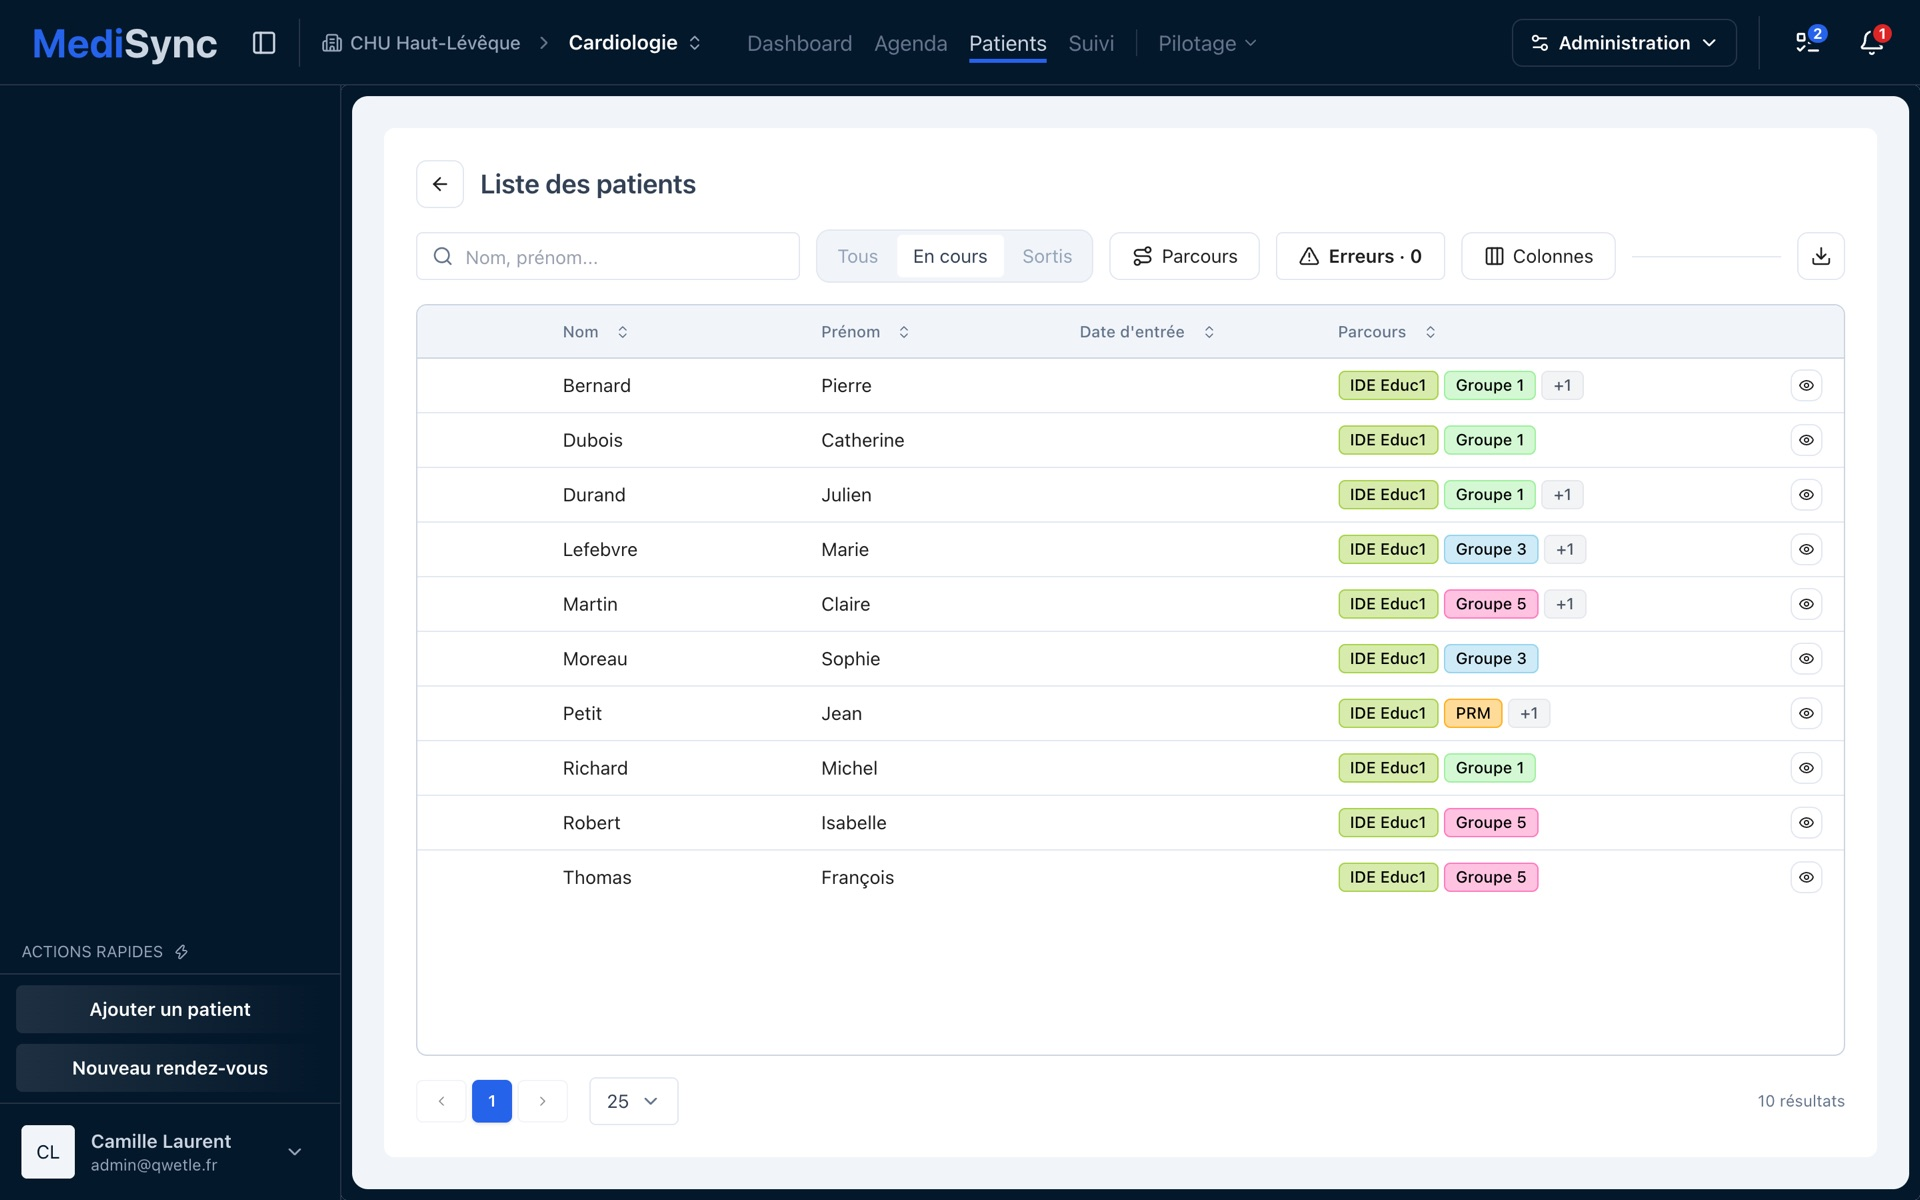
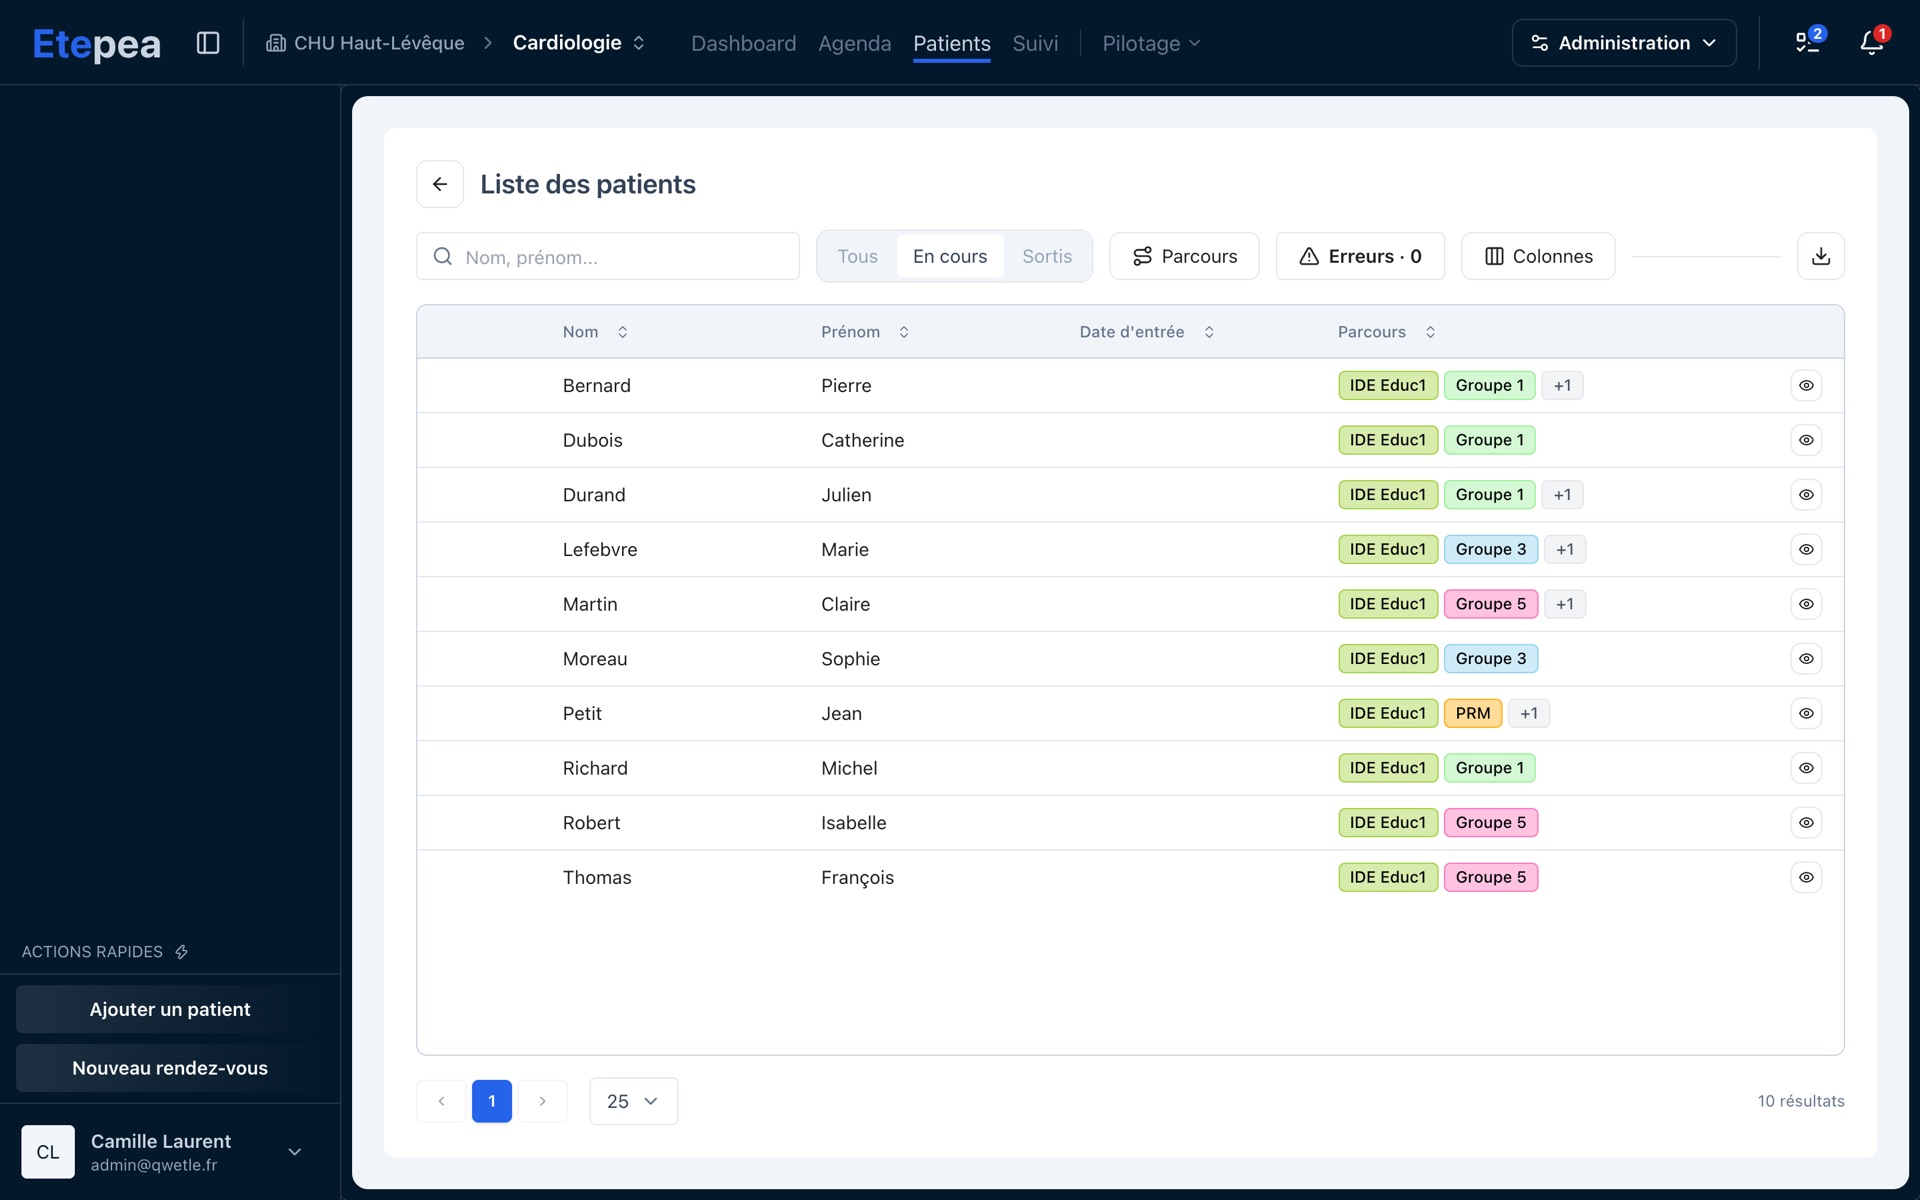
feat: renommer MediSync en Etepea dans l'app et les e-mails, captures du site refaites

Changed region(s): [[0.0, 0.0308, 0.6562, 0.0617]]

diff --git a/back/src/main/infra/mail/templates.ts b/back/src/main/infra/mail/templates.ts
@@ -35,12 +35,12 @@ export const invitationMail = ({
 }): Mail => {
   const where = establishmentName ? ` pour ${establishmentName}` : ''
   const asWhat = soignantName ? `, en tant que ${soignantName}` : ''
-  const intro = `Un accès à MediSync a été ouvert à votre nom${where}${asWhat}.`
+  const intro = `Un accès à Etepea a été ouvert à votre nom${where}${asWhat}.`
   const validity =
     "Ce lien est personnel, à usage unique et valable 30 jours. Si vous n'attendiez pas cet e-mail, ignorez-le."
   return {
     to,
-    subject: 'Votre accès à MediSync',
+    subject: 'Votre accès à Etepea',
     text: `${intro}\n\nChoisissez votre mot de passe en ouvrant ce lien :\n${link}\n\n${validity}`,
     html: layout(
       [
@@ -62,12 +62,12 @@ export const passwordResetMail = ({
   link: string
 }): Mail => {
   const intro =
-    'Une réinitialisation du mot de passe de votre compte MediSync a été demandée.'
+    'Une réinitialisation du mot de passe de votre compte Etepea a été demandée.'
   const validity =
     "Ce lien est à usage unique et valable 1 heure. Si vous n'êtes pas à l'origine de cette demande, ignorez cet e-mail : votre mot de passe reste inchangé."
   return {
     to,
-    subject: 'Réinitialisation de votre mot de passe MediSync',
+    subject: 'Réinitialisation de votre mot de passe Etepea',
     text: `${intro}\n\nChoisissez un nouveau mot de passe en ouvrant ce lien :\n${link}\n\n${validity}`,
     html: layout(
       [escapeHtml(intro), escapeHtml(validity)],
@@ -86,12 +86,12 @@ export const memberAddedMail = ({
   link: string
   establishmentName: string
 }): Mail => {
-  const intro = `Vous avez désormais accès à ${establishmentName} sur MediSync.`
+  const intro = `Vous avez désormais accès à ${establishmentName} sur Etepea.`
   const how =
     'Connectez-vous avec votre adresse et votre mot de passe habituels.'
   return {
     to,
-    subject: 'Nouvel accès sur MediSync',
+    subject: 'Nouvel accès sur Etepea',
     text: `${intro}\n\n${how}\n${link}`,
     html: layout([escapeHtml(intro), escapeHtml(how)], link, 'Se connecter'),
   }

diff --git a/back/src/test/unit/infra/notification-templates.test.ts b/back/src/test/unit/infra/notification-templates.test.ts
@@ -80,16 +80,16 @@ describe('notification-templates', () => {
   })
 
   it.each([
-    ['REMINDER', 'MediSync : rappel de séance'],
-    ['PATIENT_ADDED', 'MediSync : patient ajouté'],
-    ['APPOINTMENT_MOVED', 'MediSync : séance modifiée'],
-    ['APPOINTMENT_CANCELLED', 'MediSync : séance annulée'],
-    ['ABSENT', 'MediSync : absence'],
-    ['SLOT_ALMOST_FULL', 'MediSync : créneau presque complet'],
-    ['DIAGNOSTIC_DUE', 'MediSync : diagnostic à réaliser'],
-    ['PATHWAY_END', 'MediSync : fin de parcours'],
-    ['TASK_DUE', 'MediSync : tâche à échéance'],
-    ['MENTION', 'MediSync : mention dans une tâche'],
+    ['REMINDER', 'Etepea : rappel de séance'],
+    ['PATIENT_ADDED', 'Etepea : patient ajouté'],
+    ['APPOINTMENT_MOVED', 'Etepea : séance modifiée'],
+    ['APPOINTMENT_CANCELLED', 'Etepea : séance annulée'],
+    ['ABSENT', 'Etepea : absence'],
+    ['SLOT_ALMOST_FULL', 'Etepea : créneau presque complet'],
+    ['DIAGNOSTIC_DUE', 'Etepea : diagnostic à réaliser'],
+    ['PATHWAY_END', 'Etepea : fin de parcours'],
+    ['TASK_DUE', 'Etepea : tâche à échéance'],
+    ['MENTION', 'Etepea : mention dans une tâche'],
   ])('sujet verbatim de %s', (type, expected) => {
     expect(notificationSubject(type as (typeof TYPES)[number])).toBe(expected)
   })
@@ -239,7 +239,7 @@ describe('notification-templates', () => {
       { type: 'REMINDER', payload: { startDate: START } },
       FRONT_URL,
     )
-    expect(mail.subject).toBe('MediSync : rappel de séance')
+    expect(mail.subject).toBe('Etepea : rappel de séance')
     expect(mail.text).toContain(FRONT_URL)
     expect(mail.text).toContain(
       'Vous recevez cet e-mail selon vos préférences de notification.',
@@ -260,7 +260,7 @@ describe('notification-templates', () => {
       START,
       FRONT_URL,
     )
-    expect(mail.subject).toBe('MediSync : vos notifications du jeu. 22/10')
+    expect(mail.subject).toBe('Etepea : vos notifications du jeu. 22/10')
     expect(mail.text).toContain(
       'Rappel : vous avez une séance le jeu. 22/10 à 09:00, Bureau 2.',
     )

diff --git a/back/src/main/infra/mail/notification-templates.ts b/back/src/main/infra/mail/notification-templates.ts
@@ -7,7 +7,7 @@ export type MailableNotification = {
   payload: Record<string, unknown>
 }
 
-const CTA = 'Ouvrir MediSync'
+const CTA = 'Ouvrir Etepea'
 const FOOTER = 'Vous recevez cet e-mail selon vos préférences de notification.'
 const ROOM_UNKNOWN = 'salle non précisée'
 const COLLEAGUE_UNKNOWN = 'Un collègue'
@@ -52,16 +52,16 @@ const withDate = (connector: string, v: unknown): string => {
 }
 
 const SUBJECTS: Record<NotificationType, string> = {
-  REMINDER: 'MediSync : rappel de séance',
-  PATIENT_ADDED: 'MediSync : patient ajouté',
-  APPOINTMENT_MOVED: 'MediSync : séance modifiée',
-  APPOINTMENT_CANCELLED: 'MediSync : séance annulée',
-  ABSENT: 'MediSync : absence',
-  SLOT_ALMOST_FULL: 'MediSync : créneau presque complet',
-  DIAGNOSTIC_DUE: 'MediSync : diagnostic à réaliser',
-  PATHWAY_END: 'MediSync : fin de parcours',
-  TASK_DUE: 'MediSync : tâche à échéance',
-  MENTION: 'MediSync : mention dans une tâche',
+  REMINDER: 'Etepea : rappel de séance',
+  PATIENT_ADDED: 'Etepea : patient ajouté',
+  APPOINTMENT_MOVED: 'Etepea : séance modifiée',
+  APPOINTMENT_CANCELLED: 'Etepea : séance annulée',
+  ABSENT: 'Etepea : absence',
+  SLOT_ALMOST_FULL: 'Etepea : créneau presque complet',
+  DIAGNOSTIC_DUE: 'Etepea : diagnostic à réaliser',
+  PATHWAY_END: 'Etepea : fin de parcours',
+  TASK_DUE: 'Etepea : tâche à échéance',
+  MENTION: 'Etepea : mention dans une tâche',
 }
 
 export const notificationSubject = (type: NotificationType): string =>
@@ -146,8 +146,8 @@ export const digestMail = (
   const lines = items.map(notificationLine)
   const daySuffix = safeDateOnly(day)
   const subject = daySuffix
-    ? `MediSync : vos notifications du ${daySuffix}`
-    : 'MediSync : vos notifications'
+    ? `Etepea : vos notifications du ${daySuffix}`
+    : 'Etepea : vos notifications'
   return {
     to,
     subject,

diff --git a/front/src/components/custom/popup/inviteServiceMemberForm.tsx b/front/src/components/custom/popup/inviteServiceMemberForm.tsx
@@ -108,7 +108,7 @@ function InviteServiceMemberForm() {
                     ? buildAccessLinkUrl(invited.accessLink.token)
                     : null
                 }
-                existingAccountMessage="Elle avait déjà un compte MediSync : elle accède au service avec son mot de passe habituel."
+                existingAccountMessage="Elle avait déjà un compte Etepea : elle accède au service avec son mot de passe habituel."
               />
             </PopupBody>
             <PopupFooter>
@@ -146,9 +146,9 @@ function InviteServiceMemberForm() {
                 </form.AppField>
 
                 <p className="text-xs text-text-light">
-                  Si cette adresse a déjà un compte MediSync, elle est
-                  simplement affectée à ce service. Sinon, un compte est créé et
-                  un lien de première connexion s'affiche ici.
+                  Si cette adresse a déjà un compte Etepea, elle est simplement
+                  affectée à ce service. Sinon, un compte est créé et un lien de
+                  première connexion s'affiche ici.
                 </p>
 
                 {/* Prénom et nom ne servent qu'au compte CRÉÉ : un compte existant garde

diff --git a/back/src/test/unit/infra/mailer.test.ts b/back/src/test/unit/infra/mailer.test.ts
@@ -14,7 +14,7 @@ const build = (sendMail: jest.Mock | null) => {
   const mailer = new Mailer({
     mailTransport: sendMail ? { sendMail } : null,
     logger: { debug: log, error: log, info: log, trace: log, warn: log },
-    config: { smtpFrom: 'MediSync <no-reply@test>' },
+    config: { smtpFrom: 'Etepea <no-reply@test>' },
   } as unknown as IocContainer)
   return { mailer, logs }
 }
@@ -36,7 +36,7 @@ describe('Mailer', () => {
     expect(sendMail).toHaveBeenCalledTimes(2)
     expect(sendMail).toHaveBeenLastCalledWith({
       ...MAIL,
-      from: 'MediSync <no-reply@test>',
+      from: 'Etepea <no-reply@test>',
     })
     expect(logs.at(-1)).toBe('Mail invitation envoyé')
     expect(logs.join('\n')).not.toMatch(/jeton|personne@/)

diff --git a/front/src/components/navbar.test.tsx b/front/src/components/navbar.test.tsx
@@ -542,7 +542,7 @@ describe('onglets de la barre de navigation', () => {
 
     await waitFor(() => {
       expect(screen.getByRole('heading', { level: 2 })).toHaveTextContent(
-        'MediSync',
+        'Etepea',
       )
     })
     expect(
@@ -575,7 +575,7 @@ describe('logo de la barre de navigation', () => {
 
     await waitFor(() => {
       expect(screen.getByRole('heading', { level: 2 })).toHaveTextContent(
-        'MediSync',
+        'Etepea',
       )
     })
     expect(screen.queryByTitle('Tableau de bord')).not.toBeInTheDocument()

diff --git a/front/src/components/custom/popup/createMemberAccountForm.tsx b/front/src/components/custom/popup/createMemberAccountForm.tsx
@@ -149,7 +149,7 @@ function CreateMemberAccountForm() {
                     ? buildAccessLinkUrl(created.accessLink.token)
                     : null
                 }
-                existingAccountMessage="Elle avait déjà un compte MediSync : un e-mail l'a prévenue, elle se connecte avec son mot de passe habituel."
+                existingAccountMessage="Elle avait déjà un compte Etepea : un e-mail l'a prévenue, elle se connecte avec son mot de passe habituel."
               />
             </PopupBody>
             <PopupFooter>

diff --git a/front/src/routes/_authenticated/choose-context.tsx b/front/src/routes/_authenticated/choose-context.tsx
@@ -55,7 +55,7 @@ function ChooseContext() {
   return (
     <div className="min-h-screen w-full bg-background px-4 py-6 sm:px-8">
       <p className="text-2xl font-bold">
-        <span className="text-primary">Medi</span>Sync
+        <span className="text-primary">Ete</span>pea
       </p>
 
       <main className="mx-auto mt-10 grid max-w-5xl gap-10 md:mt-24 md:grid-cols-[minmax(0,5fr)_minmax(0,7fr)] md:gap-16">

diff --git a/front/src/components/custom/authLayout.tsx b/front/src/components/custom/authLayout.tsx
@@ -7,7 +7,7 @@ export const AuthLayout = ({ children }: { children: React.ReactNode }) => (
   <div className="overflow-hidden w-full h-screen flex relative">
     <div className="absolute top-6 left-2 z-20">
       <h1 className="px-2 text-3xl font-bold">
-        <span className="text-primary">Medi</span>Sync
+        <span className="text-primary">Ete</span>pea
       </h1>
     </div>
 

diff --git a/front/src/components/settings/notificationPrefs.tsx b/front/src/components/settings/notificationPrefs.tsx
@@ -350,7 +350,7 @@ export function NotificationPrefs() {
 
       <div className="border-t border-border pt-4">
         <p className="text-sm text-text-dark mb-2">
-          À {email}, sans données de santé : un lien ouvre MediSync.
+          À {email}, sans données de santé : un lien ouvre Etepea.
         </p>
         <RadioGroup.Root
           value={data.digest}

diff --git a/front/src/routes/pending.tsx b/front/src/routes/pending.tsx
@@ -36,7 +36,7 @@ function Pending() {
     <div className="overflow-hidden w-full h-screen flex relative">
       <div className="absolute top-6 left-2">
         <h1 className="px-2 text-3xl font-bold">
-          <span className="text-primary">Medi</span>Sync
+          <span className="text-primary">Ete</span>pea
         </h1>
       </div>
 

diff --git a/front/index.html b/front/index.html
@@ -4,7 +4,7 @@
     <meta charset="UTF-8" />
     <link href="/src/assets/favicon.ico" rel="icon" type="image/x-icon" />
     <meta content="width=device-width, initial-scale=1.0" name="viewport" />
-    <title>MediSync</title>
+    <title>Etepea</title>
   </head>
   <body>
     <div id="root"></div>
